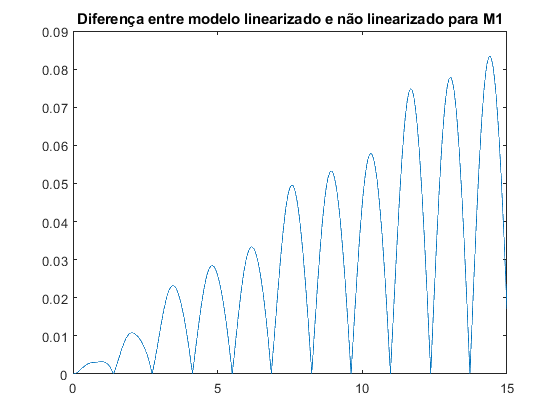
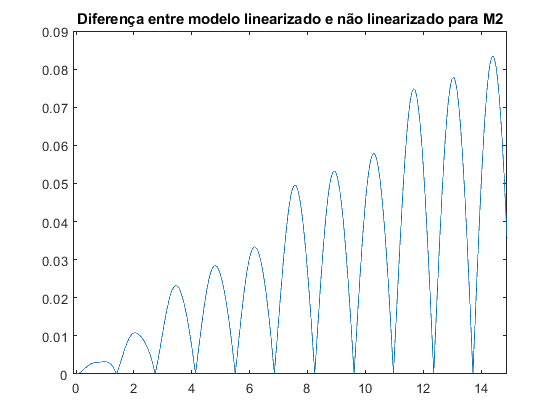
Ultima atualização

diff --git a/Exercício 1/Simulacao_ex_1.m b/Exercício 1/Simulacao_ex_1.m
@@ -399,9 +399,6 @@ toc
 % 
 % dif = abs(y_runge_n_lin_C2 - y_euler_n_lin_C2);
 % [M, I] = max(dif);
-
-
-% Gráficos item g
 % 
 % figure(20)
 % plot(tempo, y_runge_n_lin_C1(:,2),"b")
@@ -444,17 +441,16 @@ toc
 % title("Posição barra 2 Caso 1 Linearizado")
 % 
 % diferenca1 = abs(y_runge_n_lin_C1(:,2)-y_euler_n_lin_C1(:,2));
-% 
-diferenca2 = abs(y_runge_n_lin_C1(:,2)-y_runge_lin_C1(:,2));
+% diferenca2 = abs(y_runge_n_lin_C1(:,2)-y_runge_lin_C1(:,2));
 %
 % figure(25)
 % plot(tempo, diferenca1)
 % title("Diferença entre M1 e M2 para o caso não linearizado")
 %
-figure(26)
-plot(tempo, diferenca2)
-title("Diferença entre modelo linearizado e não linearizado para M1")
-
+% figure(26)
+% plot(tempo, diferenca2)
+% title("Diferença entre modelo linearizado e não linearizado para M2")
+% 
 
 %% Defininido os espaços de estados
 
